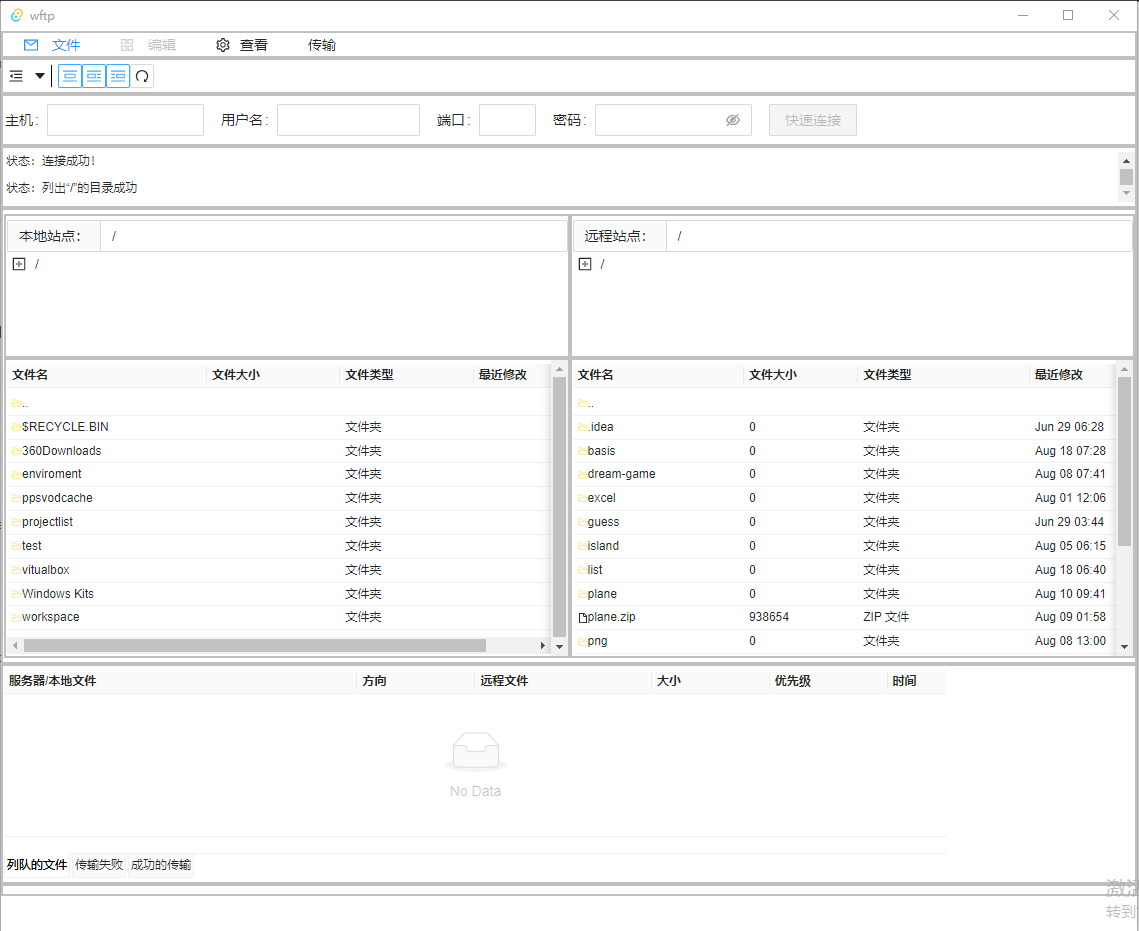
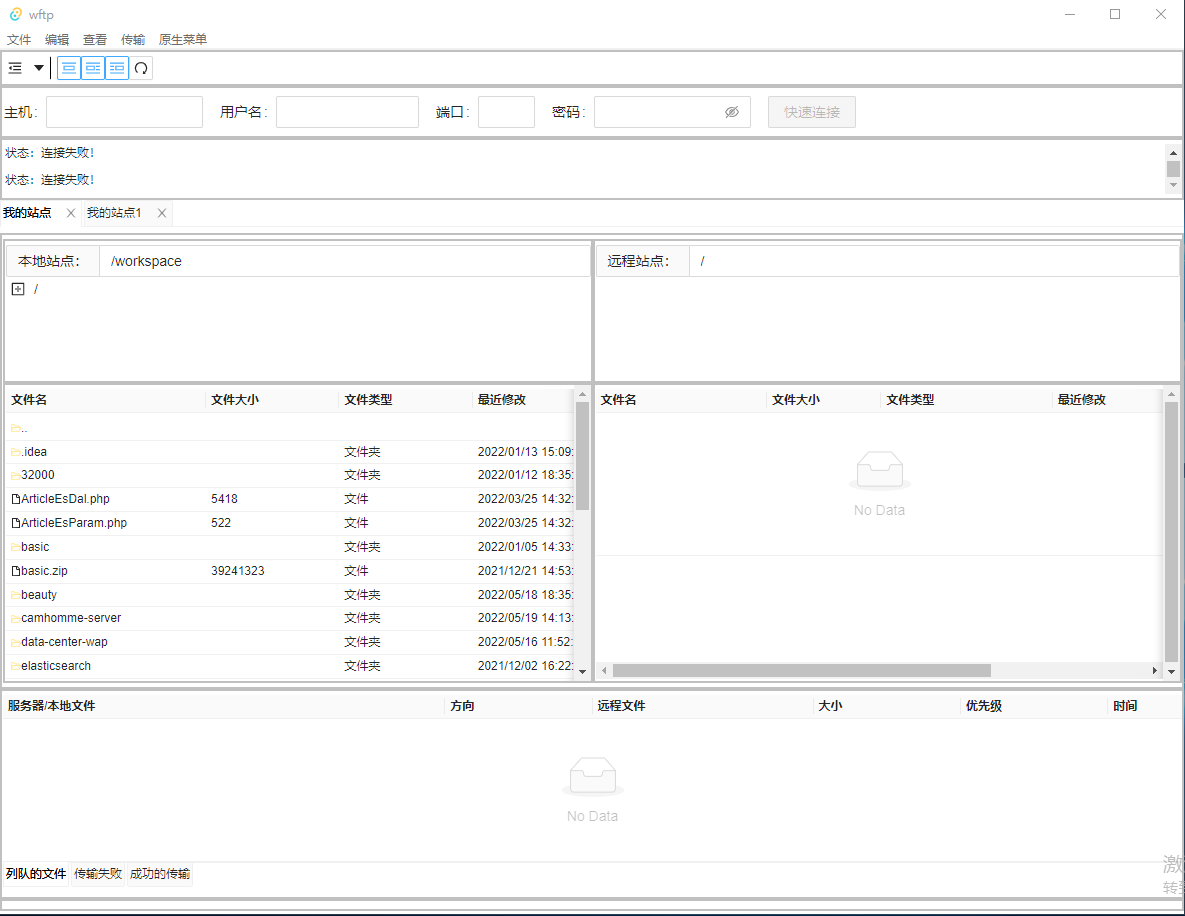
更新截图

diff --git a/src/App.vue b/src/App.vue
@@ -42,7 +42,7 @@
     </a-tab-pane>
   </a-tabs>
   <a-row>
-    <a-col :span="20">
+    <a-col :span="24">
       <transfe-list />
     </a-col>
   </a-row>
